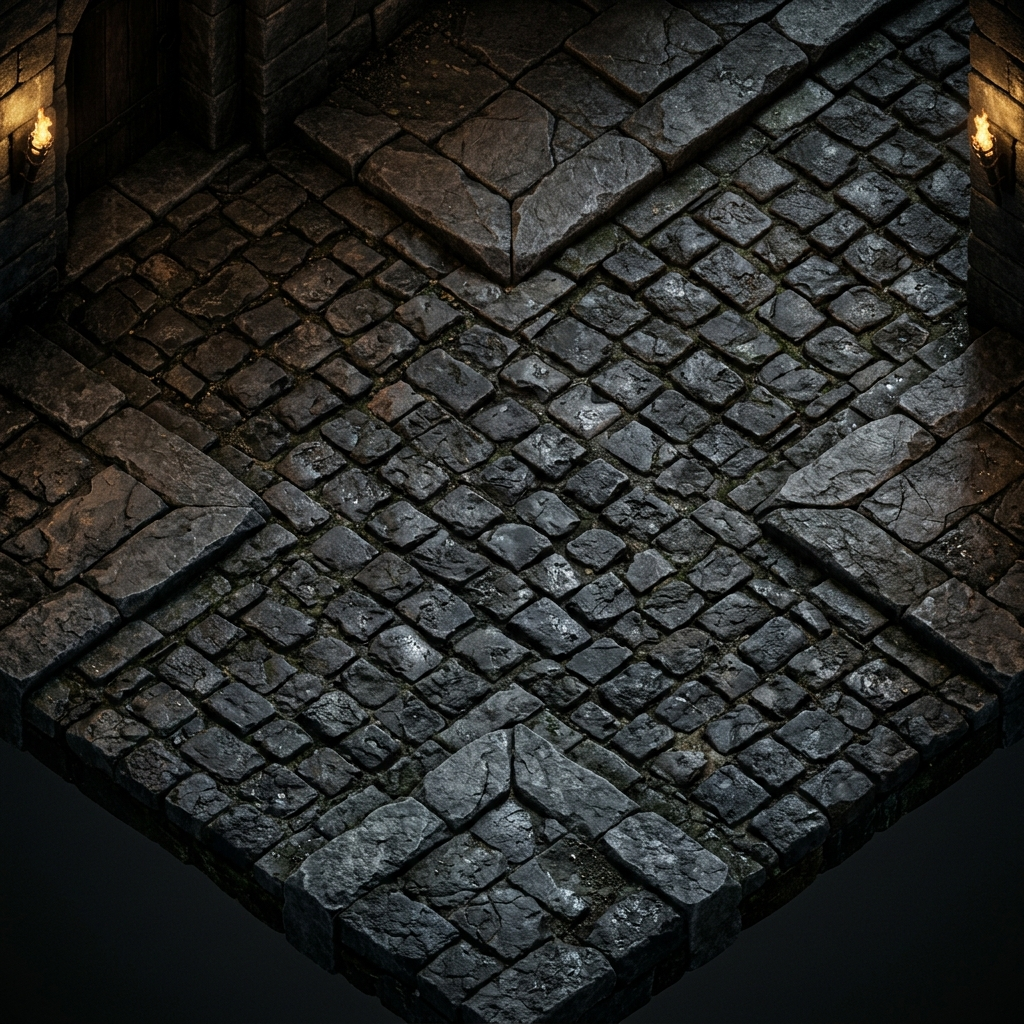
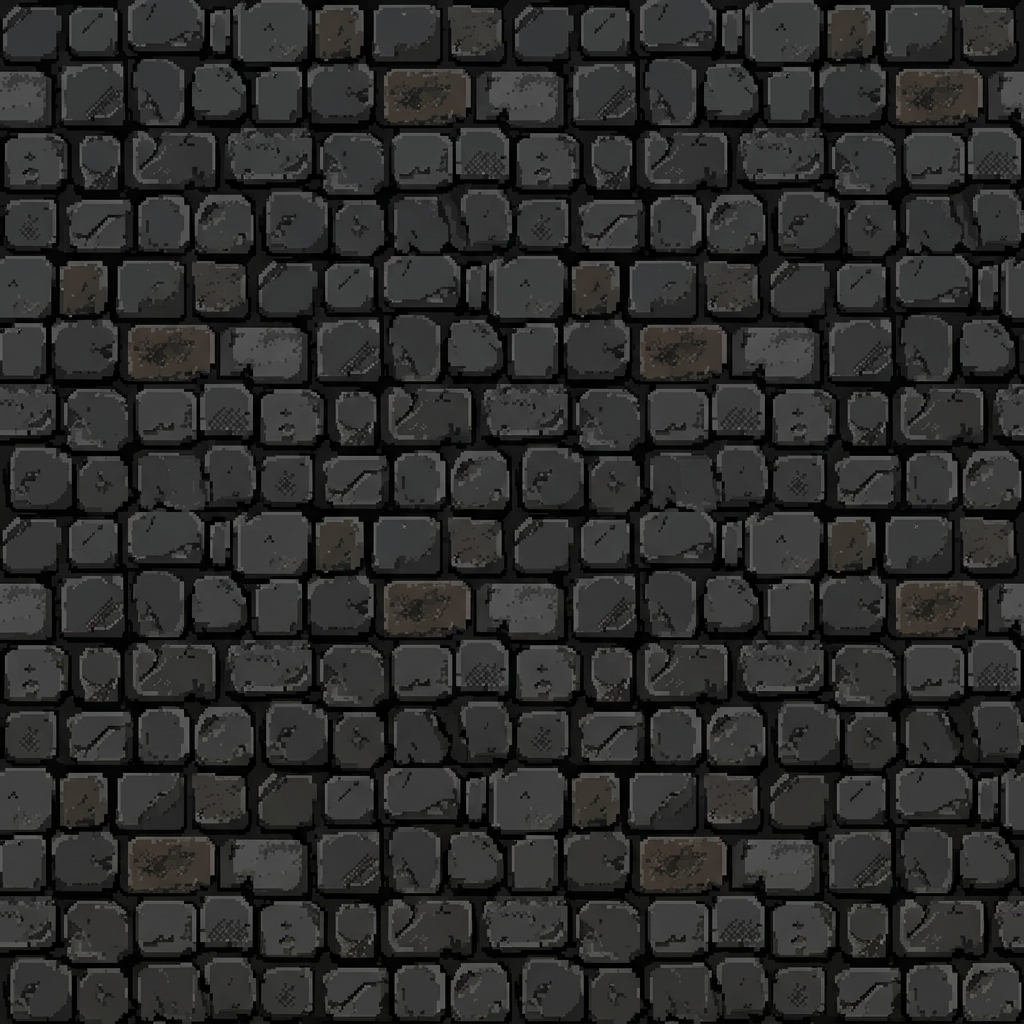
feat: add toggle for character sprites and implement terrain tile cropping

diff --git a/src/states/cerco_state.py b/src/states/cerco_state.py
@@ -334,9 +334,23 @@ class CercoState(GameState):
         img = self.game.imagens.get(f"terreno_{tipo.lower()}")
         if img is None:
             return None
-        scaled = pygame.transform.scale(img, (tw, th))
+        
+        # Recorte inteligente do centro (crop) para remover bordas escuras e sombras do tile bruto da IA
+        orig_w, orig_h = img.get_size()
+        crop_w = int(orig_w * 0.65)
+        crop_h = int(orig_h * 0.65)
+        crop_x = (orig_w - crop_w) // 2
+        crop_y = (orig_h - crop_h) // 2
+        
+        try:
+            cropped_img = img.subsurface(pygame.Rect(crop_x, crop_y, crop_w, crop_h))
+        except Exception:
+            cropped_img = img
+
+        scaled = pygame.transform.scale(cropped_img, (tw, th))
         surf = pygame.Surface((tw, th), pygame.SRCALPHA)
         surf.blit(scaled, (0, 0))
+        
         mask = pygame.Surface((tw, th), pygame.SRCALPHA)
         diamond = [(tw // 2, 0), (tw, th // 2), (tw // 2, th), (0, th // 2)]
         pygame.draw.polygon(mask, (255, 255, 255, 255), diamond)
@@ -482,12 +496,15 @@ class CercoState(GameState):
                 cx = (rx - ry) * (TW // 2) + CX
                 cy = (rx + ry) * (TH // 2) - el * ES + CY
                 proj_y = (rx + ry) * (TH // 2)
-                cells.append((proj_y, gx, gy, cx, cy))
+                cells.append((proj_y, gx, gy, cx, cy, el))
 
-        cells.sort(key=lambda x: x[0], reverse=True)
-        for _, gx, gy, cx, cy in cells:
+        cells.sort(key=lambda x: x[4], reverse=True)
+        for _, gx, gy, cx, cy, el in cells:
+            thick = el * ES
+            ctr_y = cy + thick // 2
+            half_h = (TH + thick) // 2
             dx_ = abs(mx - cx) / (TW / 2 + 1e-10)
-            dy_ = abs(my - cy) / (TH / 2 + 1e-10)
+            dy_ = abs(my - ctr_y) / (half_h + 1e-10)
             if dx_ + dy_ <= 1.0:
                 return (gx, gy)
         return None
@@ -1099,7 +1116,8 @@ class CercoState(GameState):
                 pygame.draw.polygon(tela, (15, 15, 20), right_pts, 1)
 
             # ── Topo com textura ────────────────────────────────────────
-            tex = self._tex(zona_key, TW, TH)
+            usar_sprite = self.game.sprites_visiveis
+            tex = self._tex(zona_key, TW, TH) if usar_sprite else None
             if tex:
                 tela.blit(tex, (cx_ - TW // 2, cy_ - TH // 2))
             else:
@@ -1148,7 +1166,7 @@ class CercoState(GameState):
                     rect_char = pygame.Rect(cx_ - sw // 2, cy_ - sh + 2, sw, sh)
                     eh_atual = char is self.heroi_atual
                     cor_char = (100, 215, 255) if eh_atual else (200, 180, 255)
-                    desenhar_sprite(tela, char, rect_char, cor_char, self.game.imagens)
+                    desenhar_sprite(tela, char, rect_char, cor_char, self.game.imagens, self.game.sprites_visiveis)
                     if eh_atual:
                         pulse = abs(self.timer % 120 - 60) / 60.0
                         pulse_r = max(2, int((4 + 3 * pulse) * self.zoom))

diff --git a/src/ui/render_ui.py b/src/ui/render_ui.py
@@ -141,7 +141,7 @@ def desenhar_dialogo(tela, fonte, dialogo_sistema, game_images):
             (rect_caixa.right - 25, rect_caixa.bottom - 20)
         ])
 
-def desenhar_setup_batalha(tela, fonte, config_times, config_chefe, botoes_ui, checkbox_terreno, checkbox_auto, checkbox_chefe, checkbox_autoplay, checkbox_mapa_custom, checkbox_campanha, checkbox_limitadores, bosses, selected_boss_index, game_images, volume_sfx, menu_tabs, active_tab_id, mouse_pos=None):
+def desenhar_setup_batalha(tela, fonte, config_times, config_chefe, botoes_ui, checkbox_terreno, checkbox_auto, checkbox_chefe, checkbox_autoplay, checkbox_mapa_custom, checkbox_campanha, checkbox_limitadores, checkbox_sprites, bosses, selected_boss_index, game_images, volume_sfx, menu_tabs, active_tab_id, mouse_pos=None):
     # Fundo (Wallpaper)
     try:
         bg_img = pygame.image.load(resource_path("assets/images/ui/menu_background.png")).convert()
@@ -285,9 +285,11 @@ def desenhar_setup_batalha(tela, fonte, config_times, config_chefe, botoes_ui, c
         checkbox_campanha.desenhar(tela)
         checkbox_limitadores.rect.topleft = (config_x, config_y + 240)
         checkbox_limitadores.desenhar(tela)
+        checkbox_sprites.rect.topleft = (config_x, config_y + 280)
+        checkbox_sprites.desenhar(tela)
         
         # Draw volume controls separately
-        y_volume = config_y + 280 # Below limiters checkbox
+        y_volume = config_y + 320 # Below sprites checkbox
         tela.blit(fonte.render(f"Volume SFX: {int(volume_sfx * 100)}%", True, COR_TEXTO), (config_x, y_volume))
         botoes_ui['sfx_vol_down'].rect.topleft = (config_x + 200, y_volume)
         botoes_ui['sfx_vol_down'].desenhar(tela, fonte, mouse_pos)

diff --git a/src/states/game_setup.py b/src/states/game_setup.py
@@ -68,7 +68,7 @@ class GameSetup:
 
     @staticmethod
     def setup_ui(game):
-        config_times_init, config_chefe_init, botoes_ui_init, checkbox_terreno_init, checkbox_auto_init, checkbox_chefe_init, checkbox_autoplay_init, checkbox_mapa_custom_init, checkbox_campanha_init, checkbox_limitadores_init, bosses_init = setup_menu_ui()
+        config_times_init, config_chefe_init, botoes_ui_init, checkbox_terreno_init, checkbox_auto_init, checkbox_chefe_init, checkbox_autoplay_init, checkbox_mapa_custom_init, checkbox_campanha_init, checkbox_limitadores_init, checkbox_sprites_init, bosses_init = setup_menu_ui()
     
         game.config_times.update(config_times_init)
         game.config_chefe.update(config_chefe_init)
@@ -81,6 +81,8 @@ class GameSetup:
         game.checkbox_mapa_custom = checkbox_mapa_custom_init
         game.checkbox_campanha = checkbox_campanha_init
         game.checkbox_limitadores = checkbox_limitadores_init
+        game.checkbox_sprites = checkbox_sprites_init
+        game.sprites_visiveis = not checkbox_sprites_init.checked
         game.bosses = bosses_init
         
         btn_width = 250

diff --git a/src/ui/menu.py b/src/ui/menu.py
@@ -157,6 +157,7 @@ def setup_menu_ui():
     checkbox_mapa_custom = Checkbox(check_x, y_check + 160, 20, "Usar Mapa Customizado", fonte_menu)
     checkbox_campanha = Checkbox(check_x, y_check + 200, 20, "Modo Campanha", fonte_menu)
     checkbox_limitadores = Checkbox(check_x, y_check + 240, 20, "Adicionar Limitadores", fonte_menu)
+    checkbox_sprites = Checkbox(check_x, y_check + 280, 20, "Desativar Sprites", fonte_menu)
     
     # Volume Controls
     botoes_ui['sfx_vol_down'] = Botao(0, 0, 40, 40, "-", fonte_menu, cor_fundo=COR_BOTAO_MENU)
@@ -180,4 +181,4 @@ def setup_menu_ui():
         {"classe": DragaoAnciao, "nome": "Dragão Ancião"}
     ]
 
-    return config_times, config_chefe, botoes_ui, checkbox_terreno, checkbox_auto, checkbox_chefe, checkbox_autoplay, checkbox_mapa_custom, checkbox_campanha, checkbox_limitadores, bosses
+    return config_times, config_chefe, botoes_ui, checkbox_terreno, checkbox_auto, checkbox_chefe, checkbox_autoplay, checkbox_mapa_custom, checkbox_campanha, checkbox_limitadores, checkbox_sprites, bosses

diff --git a/src/ui/render_combate.py b/src/ui/render_combate.py
@@ -147,9 +147,9 @@ def desenhar_cenario(tela, motor, game_images, y_offset, visibilidade_map):
         pygame.draw.polygon(tela, cor_base, top_points)
         pygame.draw.polygon(tela, (60, 60, 60) if visibilidade == 2 else (35, 35, 35), top_points, 1)
 
-def desenhar_sprite(tela, personagem, rect, cor, game_images):
+def desenhar_sprite(tela, personagem, rect, cor, game_images, mostrar=True):
     personagem_img_key = f"personagem_{personagem.__class__.__name__.lower()}"
-    if personagem_img_key in game_images and game_images[personagem_img_key]:
+    if mostrar and personagem_img_key in game_images and game_images[personagem_img_key]:
         scaled_img = pygame.transform.scale(game_images[personagem_img_key], (rect.width, rect.height))
         tela.blit(scaled_img, rect.topleft)
     else:

diff --git a/src/states/renderer.py b/src/states/renderer.py
@@ -27,7 +27,7 @@ class GameRenderer:
         elif g.estado_jogo == ESTADO_JOGO_SETUP:
             desenhar_setup_batalha(g.tela, g.fonte_menu, g.config_times, g.config_chefe, g.botoes_ui, 
                                    g.checkbox_terreno, g.checkbox_auto, g.checkbox_chefe, g.checkbox_autoplay, 
-                                   g.checkbox_mapa_custom, g.checkbox_campanha, g.checkbox_limitadores, g.bosses, g.selected_boss_index, 
+                                   g.checkbox_mapa_custom, g.checkbox_campanha, g.checkbox_limitadores, g.checkbox_sprites, g.bosses, g.selected_boss_index, 
                                    g.imagens, g.volume_sfx, g.menu_tabs, g.active_tab_id, mouse_pos)
         
         elif g.estado_jogo == ESTADO_JOGO_COMBATE:

diff --git a/src/states/event_handler.py b/src/states/event_handler.py
@@ -484,6 +484,9 @@ class EventHandler:
             if g.checkbox_mapa_custom.rect.collidepoint(mouse_pos): g.checkbox_mapa_custom.toggle()
             if g.checkbox_campanha.rect.collidepoint(mouse_pos): g.checkbox_campanha.toggle()
             if g.checkbox_limitadores.rect.collidepoint(mouse_pos): g.checkbox_limitadores.toggle()
+            if g.checkbox_sprites.rect.collidepoint(mouse_pos):
+                g.checkbox_sprites.toggle()
+                g.sprites_visiveis = not g.checkbox_sprites.checked
 
 
     def _handle_combate_click(self, event, mouse_pos, personagem_ativo):
